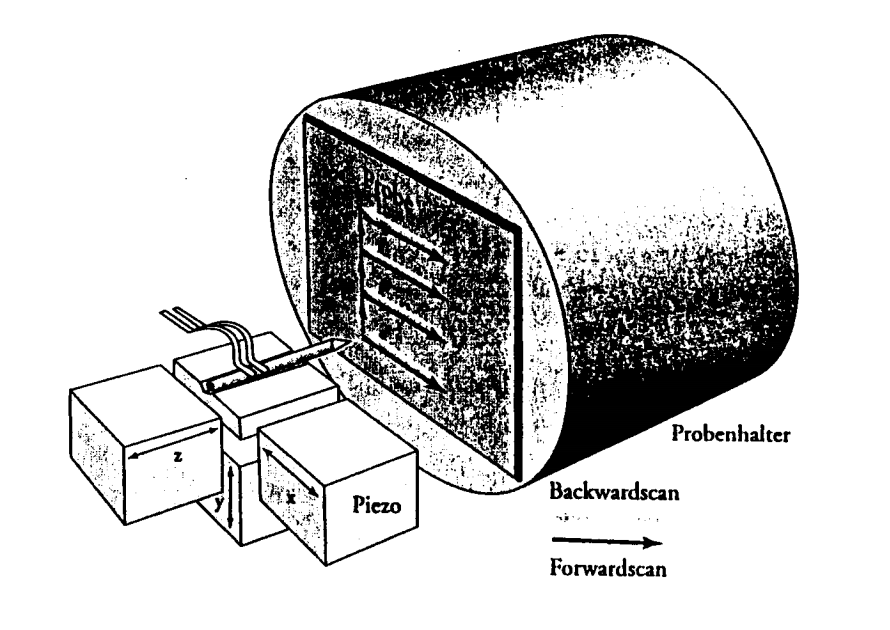
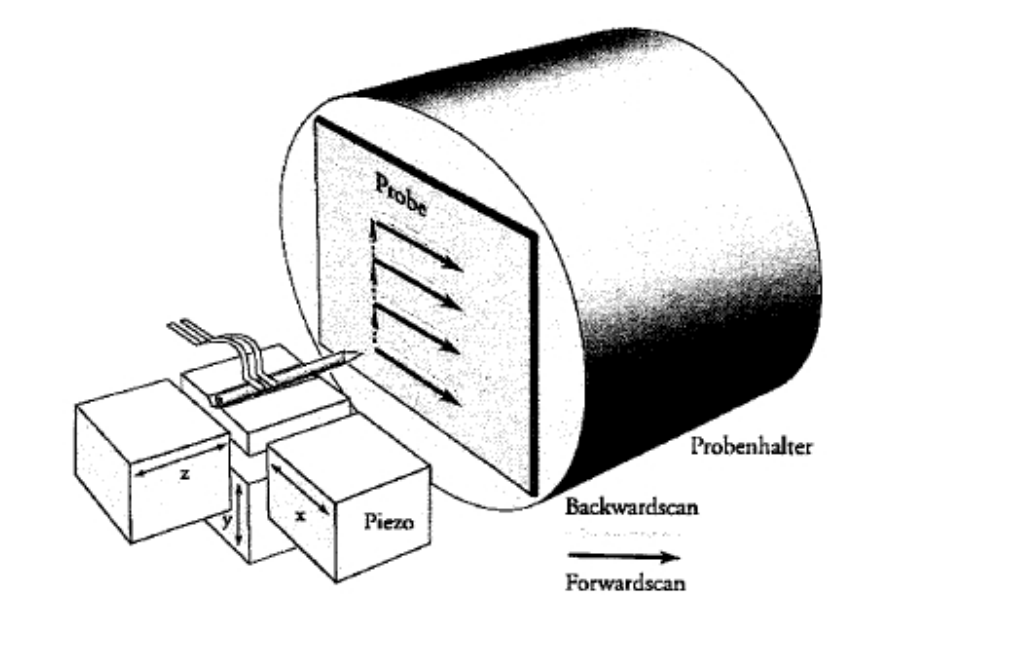
Neue grafiken und ein wenig weiter gearbeitet

diff --git a/PHY641/RTM/Protokoll/versuchsaufbau.tex b/PHY641/RTM/Protokoll/versuchsaufbau.tex
@@ -5,7 +5,7 @@ Der grundlegende Aufbau ist in der Abbildung \ref{fig: aufbau} abgebildet.
 \begin{figure}[h]
   \centering
   \includegraphics[width=0.6\textwidth]{./pics/aufbau.png}
-  \caption{Grundlegender Aufbau eines Rastertunnelmikroskops \cite{rtm}.}
+  \caption{Grundlegender Aufbau eines Rastertunnelmikroskops \cite{anleitung_frankfurt}.}
   \label{fig: aufbau}
 \end{figure}
 In der Abbildung ist die Spitzenhalterung zu sehen und
@@ -20,12 +20,33 @@ Jedoch bietet diese Methode die Gefahr, dass die Spitze die Probe rammt und so u
 Umgekehrt ist es möglich den Tunnelstrom konstant zu lassen und den Abstand zu variieren.
 Die in der Theorie angesprochende Näherung, dass die Auslenkung des Piezokrostalls linear
 mit dem anliegenden Feld geht ist in der Realität kaum zu beobachten. Deshalb wird eine
-geeignete Software benötigt, die eine genaue Ansteuerung des Piezokristall ermöglicht.
-Die im Versuch verwendete Software bietet drei verstellbare Parameter P,S \textbf{Hier noch weiter schreiben}.
-% Messverfahren P,S siehe das Skript von der Uni Frankfurt
-
+geeignete Regelkreis benötig, die eine genaue Ansteuerung des Piezokristall ermöglicht.
+Der verwendete Regelkreis misst die den Tunnelstrom $I$ und vergleicht diesen mit einen
+eingestellten Sollwert. Bei einer Differenz der beiden Werte wird die Höhe des Piezoelemnts
+entsprechend angepasst. Dabei lässt sich die Anpasssgeschwindigkeit über zwei Parameter
+einstellen. Zum einen den \emph{integralen Anteil}, dieser beeinflusst im wesentlich die
+Geschwindigkeit mit der auf Abweichung reagiert wird. Zum andern kann mit Hilfe
+dem \emph{propotionalen Anteil} gibt an wie stark auf eine Abweichung reagiert wird.
+Die Werte vom integralen und propotionalen Anteil hängen von der Beschaffenheit
+der Probe und Spitze ab \cite{anleitung_frankfurt}.
 
 \subsection{Versuchsdurchführung}
+
+Für eine genaue Messung wird eine einatomige Spitze benötigt.
+Die Spitze wird aus \ce{PtIr}-Draht (Platinum-Iridium) hergestellt, dazu
+werden eine Pinzette, eine Zang und ein Seitenscheider verwendet.
+Bevor diese benutzt werden können müssen sowohl sie als auch der Draht mit Aceton und Propanol
+gereinigt werden. Damit die Spitze besonder fein wird, werden die Werkzeuge wie in Abbildung \ref{fig: zange_schneider}
+dargestellt positioniert.
+\begin{figure}[h]
+  \centering
+  \includegraphics[width=0.6\textwidth]{./pics/herstellung_spitze.png}
+  \caption{Positionierung des Seitenschneiders und der Zange am Draht. \cite{anleitung_frankfurt}.}
+  \label{fig: zange_schneider}
+\end{figure}
+
+Anschließend werden Zange und Schneider in entgegensetzte Richtung gezogen, der Draht sollte
+auseinander gerissen werden. Wichtig ist das der Draht nicht geschnitten wird.
 
 % Spitze ziehen, Draht
 % Reinigung, Einsetzen, spitzen Strom einschalten, manuelles heranfahren (Spiegelbild), automatischs Heranfahren

diff --git a/PHY641/RTM/Protokoll/theorie.tex b/PHY641/RTM/Protokoll/theorie.tex
@@ -16,7 +16,7 @@ eigentlich nicht überwinden können (vgl. Abb. \ref{fig: tunneleffekt}).
   \caption{Darstellung des Tunneleffekts \cite{tunnel}.}
   \label{fig: tunneleffekt}
 \end{figure}
-Zum Beispiel Tunneln die \textbf{Heliumkerne} beim $\alpha$-Zerfall durch das Coulombpotential.
+Zum Beispiel Tunneln die Heliumkerne beim $\alpha$-Zerfall durch das Coulombpotential.
 
 Ein RTM verwendet den Tunneleffekt, um einen \emph{Tunnelstrom} zu erzeugen. Dieser Tunnelstrom
 fließt zwischen der Messpitze des Mikroskopen und der Probe. Hierbei ist das zu durch tunnelde
@@ -27,7 +27,7 @@ die Tunnelwahrscheinlichkeit verringert. Der gemessene Tunnelstrom ist proptiona
   \label{eq: tunnelstrom}
 I\propto \frac{U}{d}\exp{-kd\sqrt{\phi}}.
 \end{equation}
-Dabei ist $d$ der Abstand zwischen Spitze und Probe, $U$ die \textbf{an der Probe anliegende Spannung},
+Dabei ist $d$ der Abstand zwischen Spitze und Probe, $U$ die zwischen Spitze und Probe anliegende Spannung,
 $\phi$ die durchschnittliche Elektronaustrittsarbeit und $k$ eine Konstante die im Vaakum gegeben ist als
 \begin{equation*}
   k=\SI{1.025e10}{\per\sqrt{\eV}} \AA.
@@ -39,13 +39,13 @@ zu rekonstruieren.
 \subsection{Piezokeramiken}
 Damit Rastertunnelmikroskop Strukturen im Nanometerbeich untersuchen kann, muss
 die Spitze sehr genau manövriert werden. Mit Hilfe von Piezokeramiken bzw.
-Piezokristallen (vgl. Abb. \ref{}) ist es möglich solche Genauigkeiten zuereichen.
+Piezokristallen (vgl. Abb. \ref{ig: piezo}) ist es möglich solche Genauigkeiten zuerreichen.
 \begin{figure}[h]
   \centering
-  \includegraphics[wi
-  ++dth=0.6\textwidth]{./pics/tunelleffekt.png}
-  \caption{Darstellung des Tunneleffekts \cite{tunnel}.}
-  \label{fig: tunneleffekt}
+  \includegraphics[width=0.6\textwidth]{./pics/piezo.png}
+  \caption{Schemtischer Aufbau eines Piezokristalls (links). Außerdem ist die Änderung der räumlichen Struktur, auf Grund eines
+  äußeren Elektrischenfeldes, zu erkennen (rechts). \cite{piezo}.}
+  \label{fig: piezo}
 \end{figure}
 Ein Piezokrisall besitzt die Eigenschaft, sich unter Einwirkung eines äußeren
 elektrischen Feldes auszudehnen. Dabei findet die Ausdehnung immer parallel zur
@@ -100,6 +100,7 @@ Das Phänomen der \emph{Kreuzkopplung} beschreibt die $x$- und $y$-Abhängigkeit
 \end{figure}
 Die damit verbundenen Fehlern können mit Hilfe einer Software rausgerechnet werden.
 
+%thermische Drifts
 \subsection{HOPG}
 
 \subsection{Gold}
